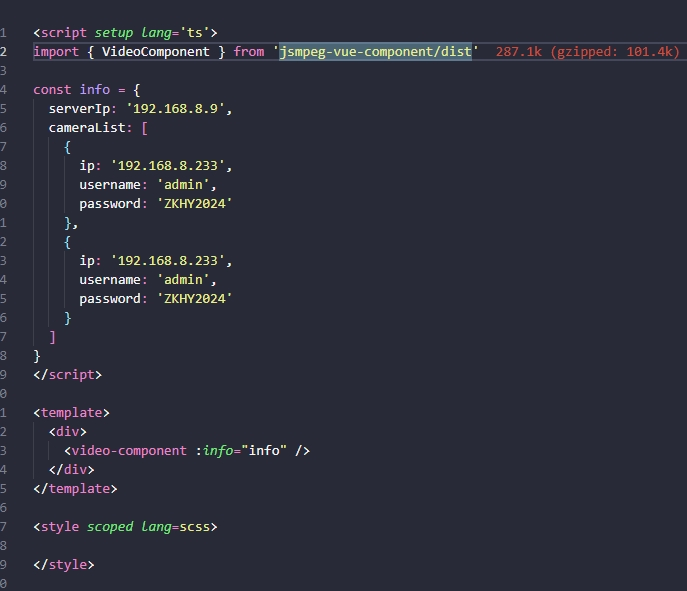
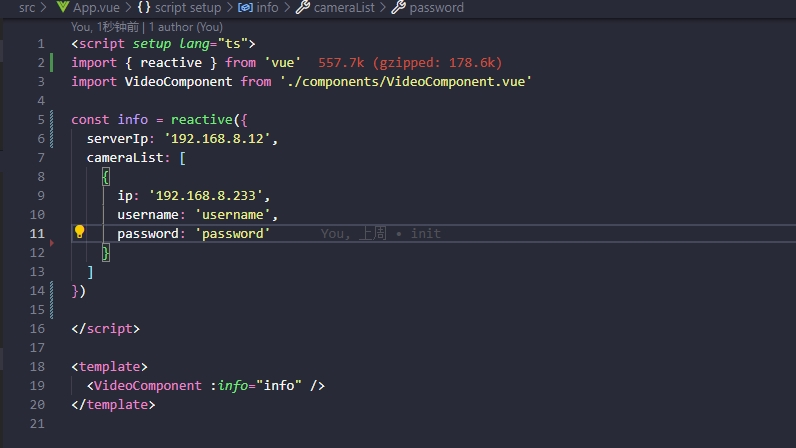
增加对props变化的监听，便于切换摄像头功能

diff --git a/src/components/VideoComponent.vue b/src/components/VideoComponent.vue
@@ -50,7 +50,7 @@ const initVideo = (camera: Camera) => {
       })
     }).then(response => response.json())
       .then(async data => {
-        console.log(data)
+        // console.log(data)
         if(data.ports.length){
           for(let i = 0; i < data.ports.length; i++){
             videos.value.push({
@@ -83,6 +83,7 @@ const reset = () => {
 }
 const initPage = async () => {
   reset()
+  console.log('initPage',props.info,videos.value)
   for(let i = 0; i < props.info.cameraList.length; i++){
     await initVideo(props.info.cameraList[i])
   }
@@ -90,6 +91,15 @@ const initPage = async () => {
   renderVideo()
   connectWs()
 }
+watch(() => props.info, () => {
+  // initPage()
+  if(ws){
+    ws.close()
+  }else{
+    initPage()
+  }
+  // console.log('watch',props.info)
+},{ deep: true })
 let currentFullScreenPlayer:any = null
 const fullScreen = (port: number) => {
   const videoFullScreen = document.getElementById('videoFullScreen') as HTMLElement

diff --git a/src/App.vue b/src/App.vue
@@ -1,21 +1,18 @@
 <script setup lang="ts">
+import { reactive } from 'vue'
 import VideoComponent from './components/VideoComponent.vue'
 
-const info = {
-  serverIp: '192.168.8.9',
+const info = reactive({
+  serverIp: '192.168.8.12',
   cameraList: [
-    {
-      ip: '192.168.8.233',
-      username: 'username',
-      password: 'password'
-    },
     {
       ip: '192.168.8.233',
       username: 'username',
       password: 'password'
     }
   ]
-}
+})
+
 </script>
 
 <template>
